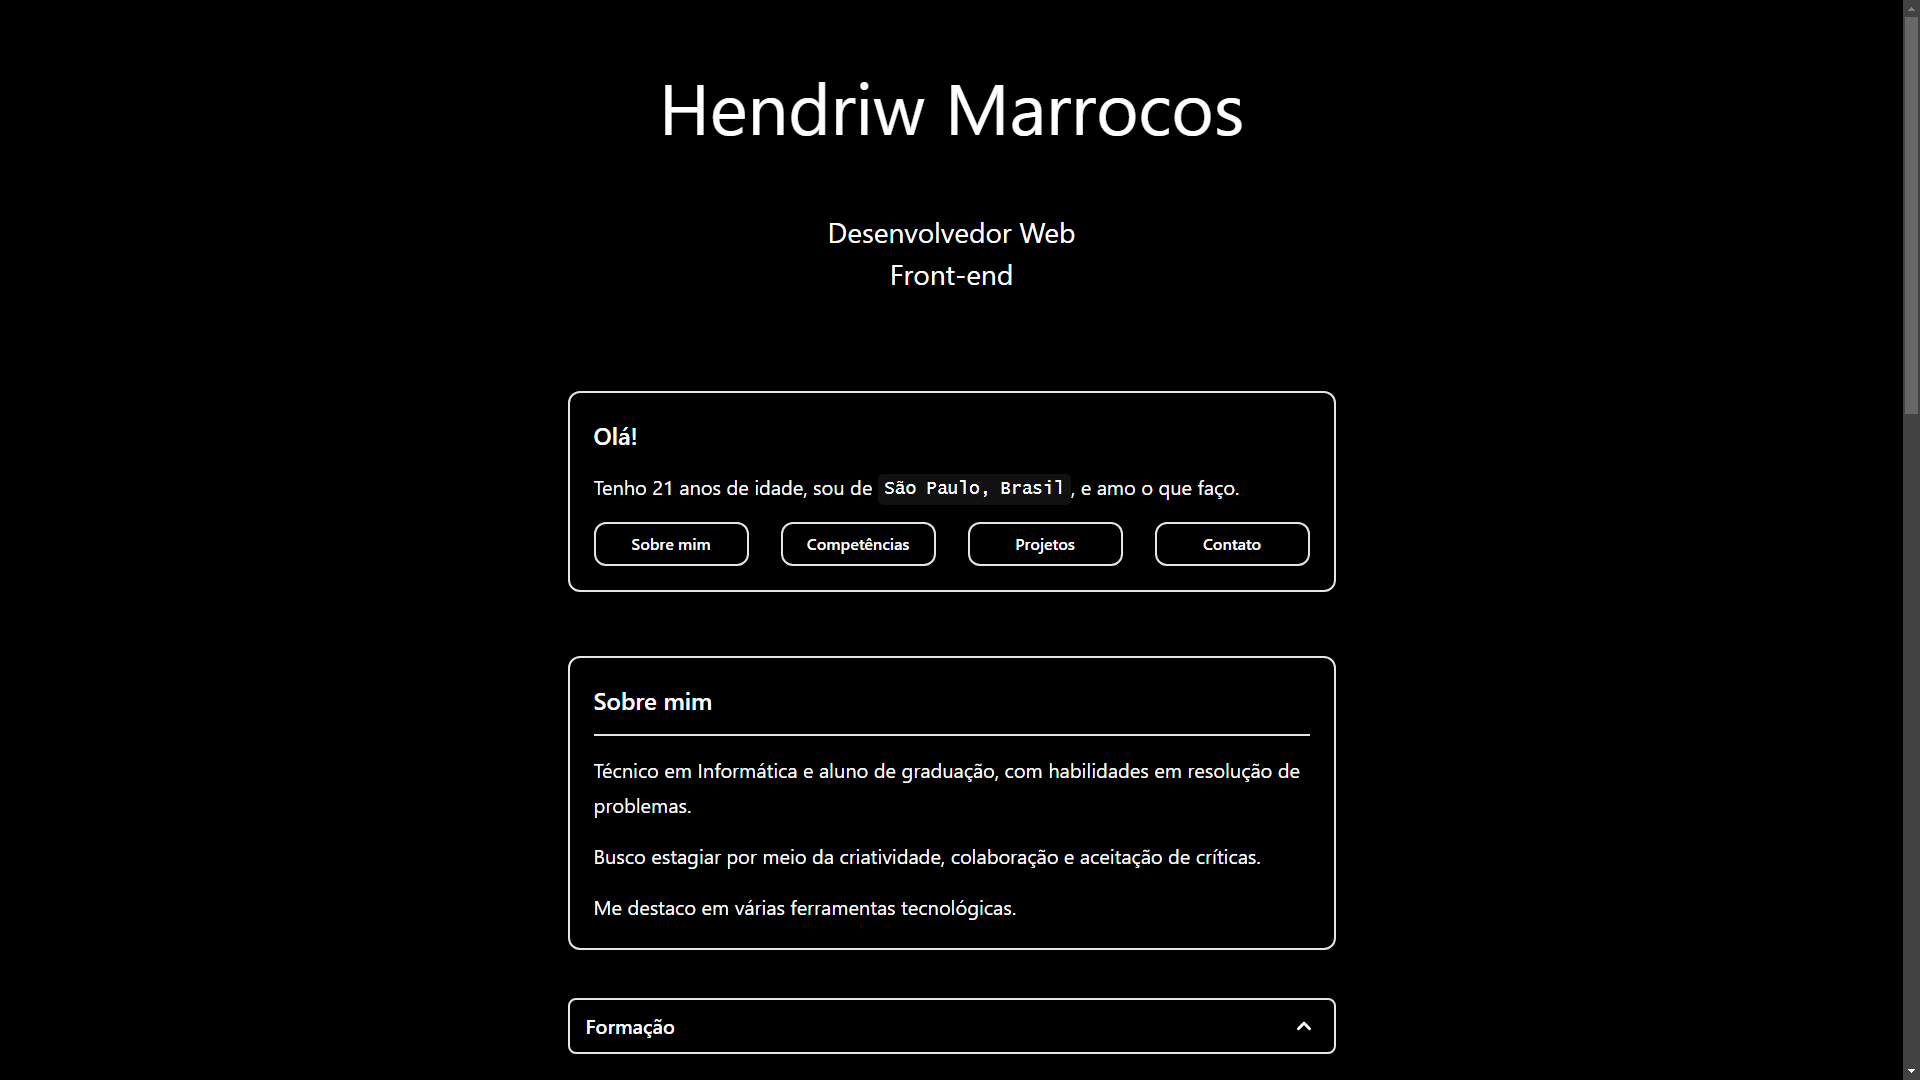
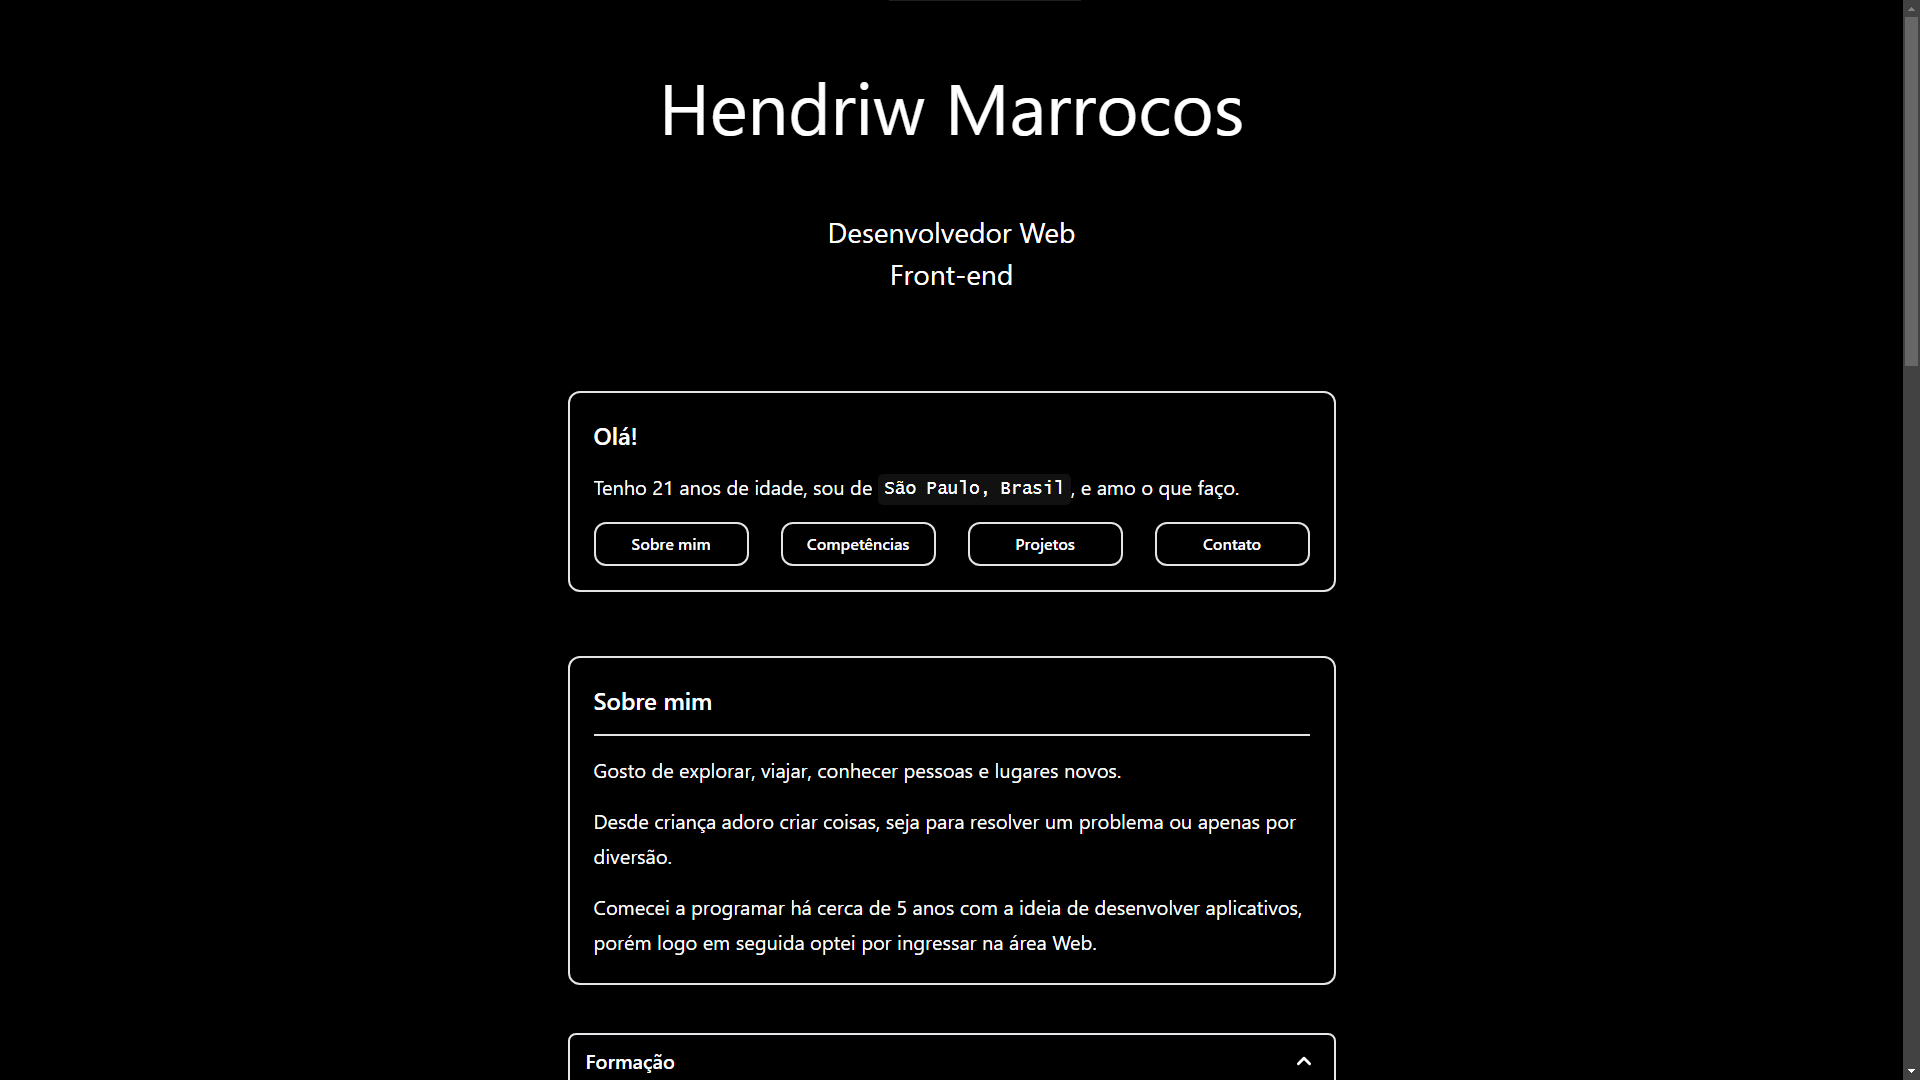
v1

Changed region(s): [[0.3125, 0.7028, 0.6875, 0.8861], [0.2812, 0.9472, 0.6875, 1.0], [0.9688, 0.3361, 1.0, 0.3972]]

diff --git a/pages/index.tsx b/pages/index.tsx
@@ -1,7 +1,7 @@
 import Head from "next/head";
 import styles from "../styles/Home.module.scss";
 import Header from "./header";
-import Link from 'next/link';
+import Link from "next/link";
 
 import { Disclosure } from "@headlessui/react";
 import { ChevronUpIcon } from "@heroicons/react/solid";
@@ -20,7 +20,9 @@ export default function Home(): JSX.Element {
         <main className={styles.main}>
           <h1 className={styles.title}>Hendriw Marrocos</h1>
 
-          <p className={styles.description}>Desenvolvedor Web<p>Front-end</p></p>
+          <p className={styles.description}>
+            Desenvolvedor Web<p>Front-end</p>
+          </p>
 
           <div className={styles.grid}>
             <div className={styles.card}>
@@ -37,43 +39,46 @@ export default function Home(): JSX.Element {
                 </a>
                 , e amo o que faço.
               </p>
-              
+
               <nav className={styles.sections}>
-                <Link href="#sobre"><button
-                  className="text-center whitespace-nowrap rounded-xl px-4 py-2 font-semibold flex-1 border-2 border-neutral-200"
-                >
-                  Sobre mim
-                </button></Link>
-                <Link href="#competencias"><button
-                  className="text-center whitespace-nowrap rounded-xl px-4 py-2 font-semibold flex-1 border-2 border-neutral-200"
-                >
-                  Competências
-                </button></Link>
-                <Link href="#projetos"><button
-                  className="text-center whitespace-nowrap rounded-xl px-4 py-2 font-semibold flex-1 border-2 border-neutral-200"
-                >
-                  Projetos
-                </button></Link>
-                <Link href="#contato"><button
-                  className="text-center whitespace-nowrap rounded-xl px-4 py-2 font-semibold flex-1 border-2 border-neutral-200"
-                >
-                  Contato
-                </button></Link>
+                <Link href="#sobre">
+                  <button className="text-center whitespace-nowrap rounded-xl px-4 py-2 font-semibold flex-1 border-2 border-neutral-200">
+                    Sobre mim
+                  </button>
+                </Link>
+                <Link href="#competencias">
+                  <button className="text-center whitespace-nowrap rounded-xl px-4 py-2 font-semibold flex-1 border-2 border-neutral-200">
+                    Competências
+                  </button>
+                </Link>
+                <Link href="#projetos">
+                  <button className="text-center whitespace-nowrap rounded-xl px-4 py-2 font-semibold flex-1 border-2 border-neutral-200">
+                    Projetos
+                  </button>
+                </Link>
+                <Link href="#contato">
+                  <button className="text-center whitespace-nowrap rounded-xl px-4 py-2 font-semibold flex-1 border-2 border-neutral-200">
+                    Contato
+                  </button>
+                </Link>
               </nav>
             </div>
 
             <div id="sobre" className={styles.card}>
               <h2>Sobre mim</h2>
-              <hr className={styles.hr}/>
+              <hr className={styles.hr} />
               <p>
-                Técnico em Informática e aluno de graduação, com habilidades em
-                resolução de problemas.
+                Gosto de explorar, viajar, conhecer pessoas e lugares novos.
               </p>
               <p>
-                Busco estagiar por meio da criatividade, colaboração e aceitação
-                de críticas.
+                Desde criança adoro criar coisas, seja para resolver um problema
+                ou apenas por diversão.
               </p>
-              <p>Me destaco em várias ferramentas tecnológicas.</p>
+              <p>
+                Comecei a programar há cerca de 5 anos com a ideia de
+                desenvolver aplicativos, porém logo em seguida optei por
+                ingressar na área Web.
+              </p>
             </div>
 
             <div className="flex w-full">
@@ -85,7 +90,9 @@ export default function Home(): JSX.Element {
                         <span>Formação</span>
                         <ChevronUpIcon
                           className={`${
-                            open ? "rotate-180 transform" : ""
+                            open
+                              ? "rotate-180 transform transition duration-300"
+                              : "" //!!!
                           } h-7 w-7`}
                         />
                       </Disclosure.Button>
@@ -111,7 +118,9 @@ export default function Home(): JSX.Element {
                         <span>Experiência</span>
                         <ChevronUpIcon
                           className={`${
-                            open ? "rotate-180 transform" : ""
+                            open
+                              ? "rotate-180 transform transition duration-300"
+                              : "" //!!!
                           } h-7 w-7`}
                         />
                       </Disclosure.Button>
@@ -136,10 +145,10 @@ export default function Home(): JSX.Element {
                 <div className="flex gap-2">
                   <img
                     className="flex self-center h-4"
-                    src="/nextjs.png"
-                    alt="Next.js"
+                    src="/js.png"
+                    alt="JavaScript"
                   />
-                  Next.js
+                  JavaScript
                 </div>
                 <div className="flex gap-2">
                   <img
@@ -152,50 +161,10 @@ export default function Home(): JSX.Element {
                 <div className="flex gap-2">
                   <img
                     className="flex self-center h-4"
-                    src="/ts.png"
-                    alt="TypeScript"
-                  />
-                  TypeScript
-                </div>
-                <div className="flex gap-2">
-                  <img
-                    className="flex self-center h-4"
-                    src="/esl.png"
-                    alt="ESLint"
-                  />
-                  ESLint
-                </div>
-                <div className="flex gap-2">
-                  <img
-                    className="flex self-center h-4"
-                    src="/twcss.png"
-                    alt="Tailwind CSS"
-                  />
-                  Tailwind CSS
-                </div>
-                <div className="flex gap-2">
-                  <img
-                    className="flex self-center h-4"
-                    src="/sass.png"
-                    alt="SASS/SCSS"
-                  />
-                  SASS/SCSS
-                </div>
-                <div className="flex gap-2">
-                  <img
-                    className="flex self-center h-4"
                     src="/seo.png"
                     alt="SEO"
                   />
                   Otimização para mecanismos de busca (SEO)
-                </div>
-                <div className="flex gap-2">
-                  <img
-                    className="flex self-center h-4"
-                    src="/mdx.png"
-                    alt="MDX"
-                  />
-                  MultiDimensional eXpressions
                 </div>
                 <div className="flex gap-2">
                   <img
@@ -208,10 +177,82 @@ export default function Home(): JSX.Element {
                 <div className="flex gap-2">
                   <img
                     className="flex self-center h-4"
+                    src="/html.png"
+                    alt="HTML"
+                  />
+                  HTML
+                </div>
+                <div className="flex gap-2">
+                  <img
+                    className="flex self-center h-4"
+                    src="/css.png"
+                    alt="CSS"
+                  />
+                  CSS
+                </div>
+                <div className="flex gap-2">
+                  <img
+                    className="flex self-center h-4"
+                    src="/twcss.png"
+                    alt="Tailwind CSS"
+                  />
+                  Tailwind CSS
+                </div>
+                <div className="flex gap-2">
+                  <img
+                    className="flex self-center h-4"
+                    src="/gh.png"
+                    alt="GitHub"
+                  />
+                  GitHub
+                </div>
+                <div className="flex gap-2">
+                  <img
+                    className="flex self-center h-4"
+                    src="/nodejs.png"
+                    alt="Node.js"
+                  />
+                  Node.js
+                </div>
+                <div className="flex gap-2">
+                  <img
+                    className="flex self-center h-4"
+                    src="/sass.png"
+                    alt="SASS/SCSS"
+                  />
+                  SASS/SCSS
+                </div>
+                <div className="flex gap-2">
+                  <img
+                    className="flex self-center h-4"
+                    src="/nextjs.png"
+                    alt="Next.js"
+                  />
+                  Next.js
+                </div>
+                <div className="flex gap-2">
+                  <img
+                    className="flex self-center h-4"
+                    src="/mdx.png"
+                    alt="MDX"
+                  />
+                  MultiDimensional eXpressions
+                </div>
+                <div className="flex gap-2">
+                  <img
+                    className="flex self-center h-4"
                     src="/git.png"
                     alt="Git"
                   />
                   Git
+                </div>
+                <div className="flex gap-2">
+                  <img
+                    className="flex self-center h-4"
+                    src="/ts.png"
+                    alt="TypeScript"
+                  />
+                  TypeScript
                 </div>
               </div>
             </div>
@@ -258,18 +299,17 @@ export default function Home(): JSX.Element {
                   ></img>
                   <div className="flex flex-col py-2">
                     <div className="flex">
-                      <h4 className="text-lg font-medium flex-1">
-                        Marrocos
-                      </h4>
+                      <h4 className="text-lg font-medium flex-1">Marrocos</h4>
                     </div>
                     <p className="text-lg font-light">
-                      Um site desenhado e desenvolvido exclusivamente para mim, como 
-                      página pessoal ou portfólio para mostrar meus projetos e outras informações.
+                      Um site desenhado e desenvolvido exclusivamente para mim,
+                      como página pessoal ou portfólio para mostrar meus
+                      projetos e outras informações.
                     </p>
                   </div>
                 </div>
               </a>
-              
+
               <a
                 href="https://github.com/hmarrocos/uikit"
                 target="_blank"
@@ -283,18 +323,16 @@ export default function Home(): JSX.Element {
                   ></img>
                   <div className="flex flex-col py-2">
                     <div className="flex">
-                      <h4 className="text-lg font-medium flex-1">
-                        UI Kit
-                      </h4>
+                      <h4 className="text-lg font-medium flex-1">UI Kit</h4>
                     </div>
                     <p className="text-lg font-light">
-                      Um kit de interface do usuário com um conjunto de 
-                      componentes reutilizáveis, como buttons, inputs, cards, modals, o que você quiser.
+                      Um kit de interface do usuário com um conjunto de
+                      componentes reutilizáveis, como buttons, inputs, cards,
+                      modals, o que você quiser.
                     </p>
                   </div>
                 </div>
               </a>
-              
             </div>
             <div id="contato" className={styles.card}>
               <h2>Contato</h2>
